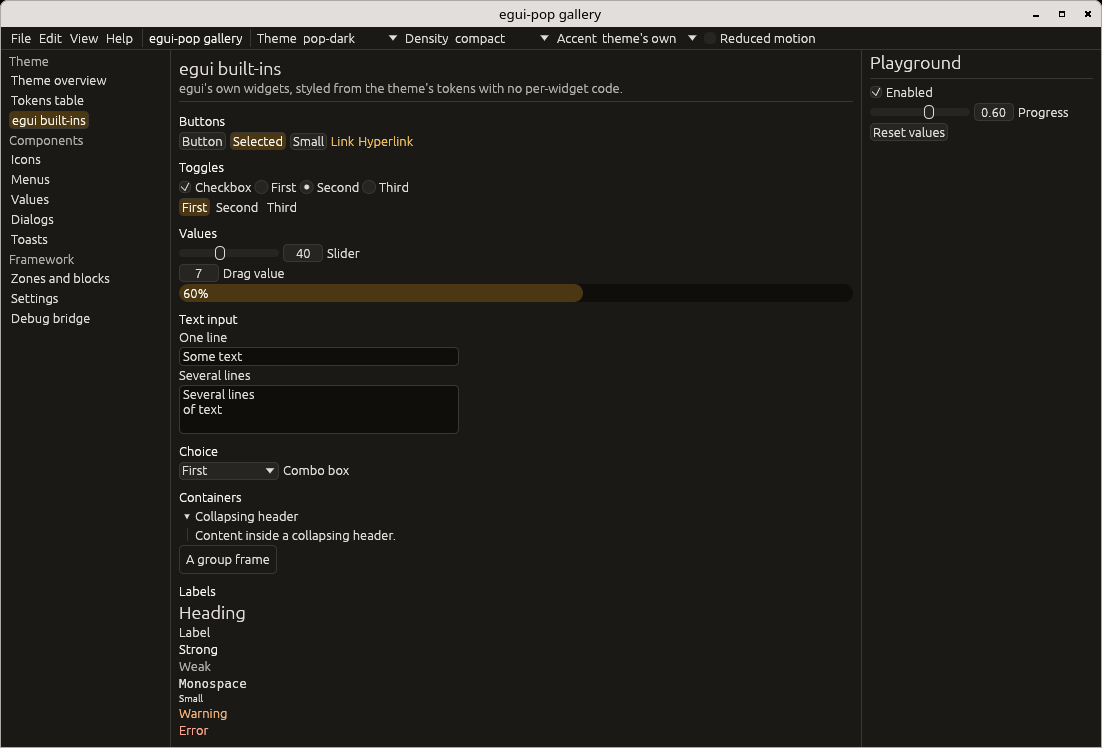
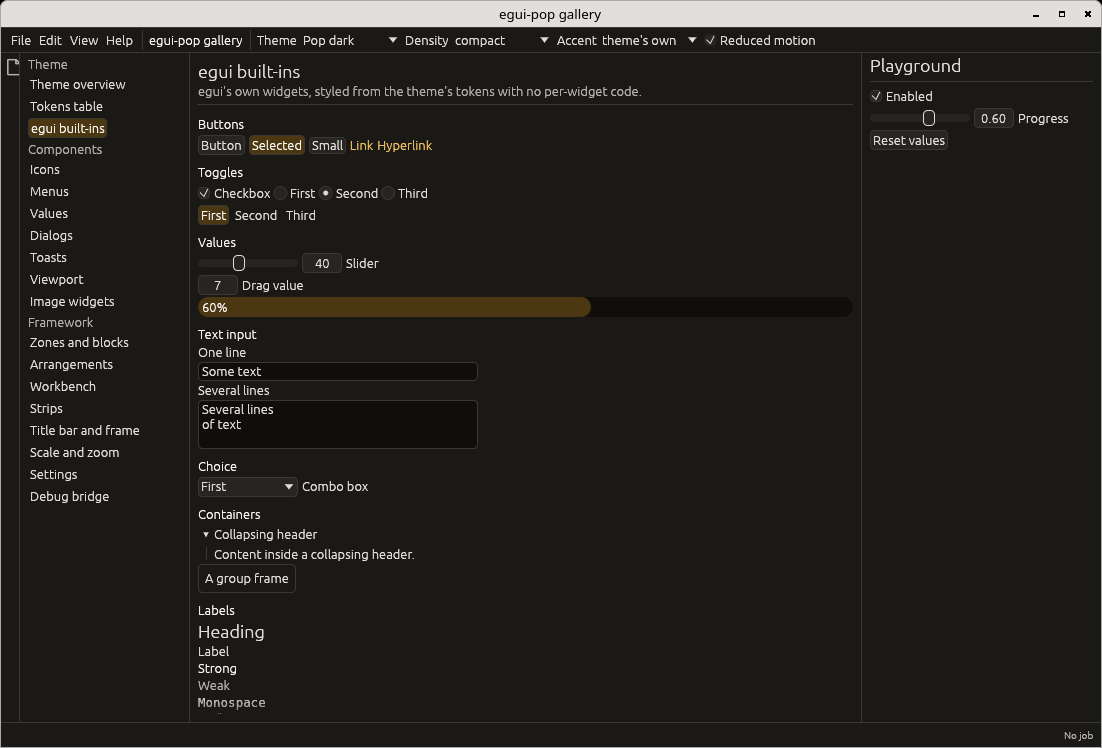
Docs: every screenshot regenerated by cargo xtask screenshots
The full images follow the gallery as it is now (the wider side bar,
the status bar, Reduced motion on); new: the README's thumbnails, the
overview in each of the fifteen built-in themes for docs/themes.md, and
the Workbench page with its demonstration panels open, shown in
docs/workbench.md.

diff --git a/docs/workbench.md b/docs/workbench.md
@@ -14,6 +14,10 @@ tabs and splits over [egui_dock](https://github.com/Adanos020/egui_dock),
 saves where the user put them and repairs that layout at the next start.
 The shell's side bar, main and inspector zones are panels of their areas.
 
+![The gallery's Workbench page: Outline beside the side bar, Properties
+beside the inspector, Console and Notes in the bottom
+panel](screenshots/workbench-pop-dark.png)
+
 ```rust
 use egui_pop::api::steps::Before;
 use egui_pop::api::workbench::STEP_MOVE;
